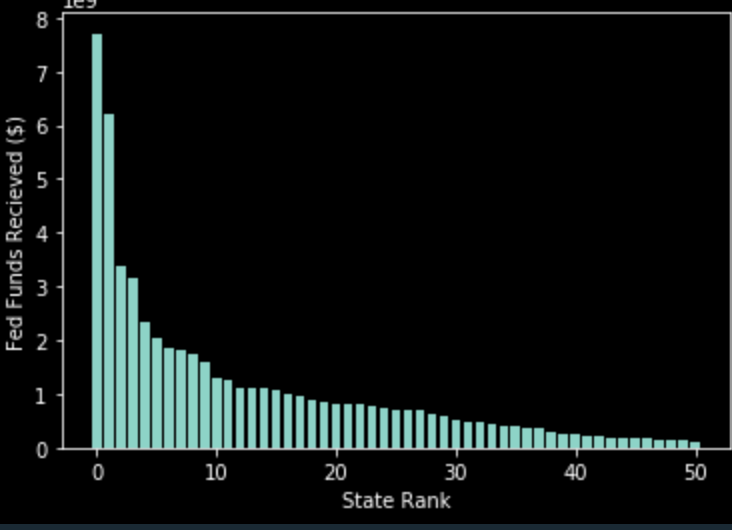
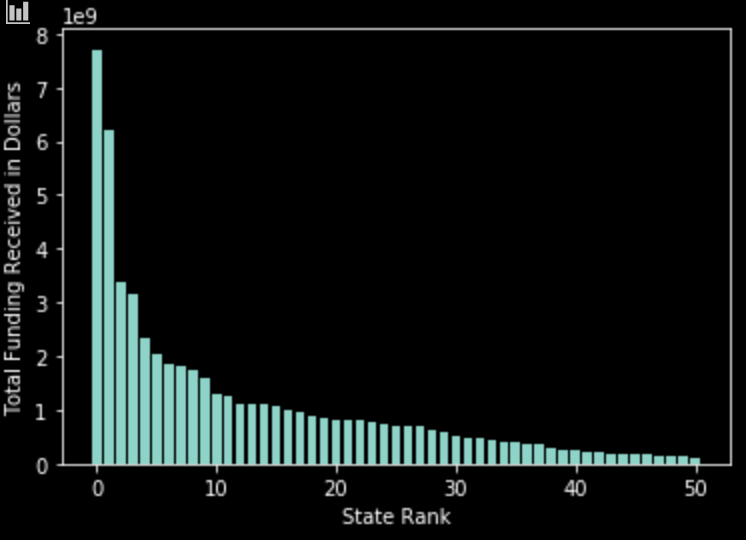
updates to image

Changed region(s): [[0.0, 0.0, 1.0, 1.0]]

diff --git a/code/question1.py b/code/question1.py
@@ -38,7 +38,7 @@ states = data['STNAME'].values
 revs = data['TFEDREV'].values
 plt.bar(np.arange(len(states)), revs)
 plt.xlabel("State Rank")
-plt.ylabel("Fed Funds Recieved ($)")
+plt.ylabel("Total Funding Received in Dollars")
 plt.show()
 
 
